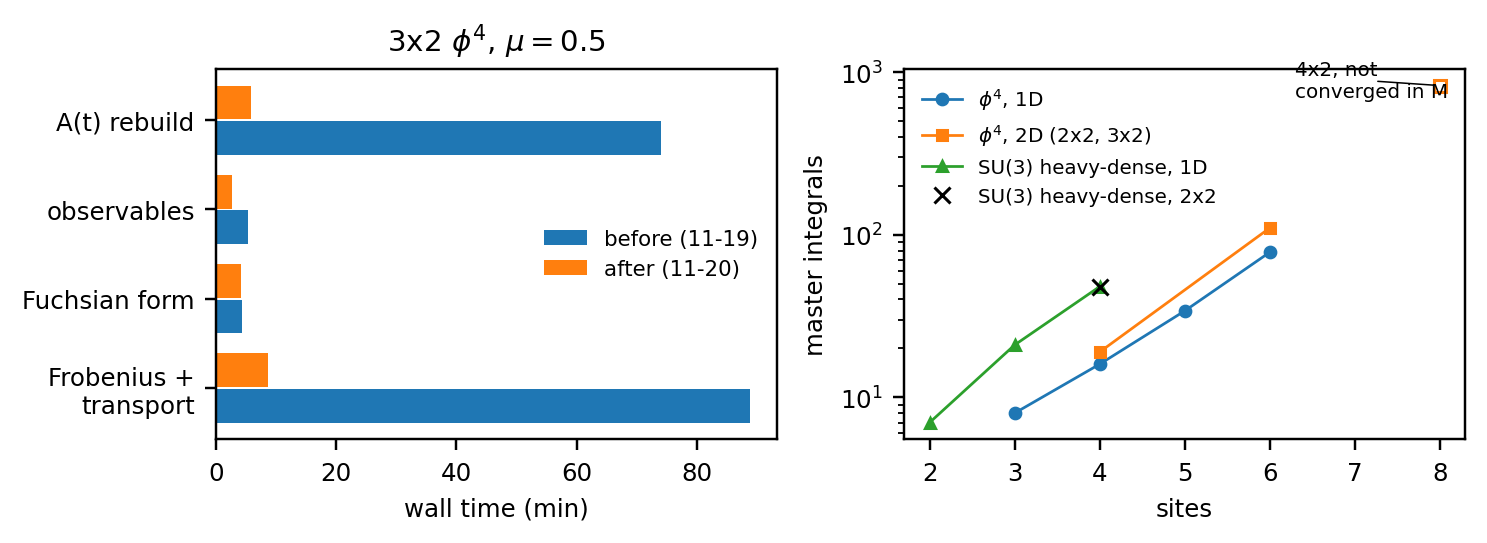
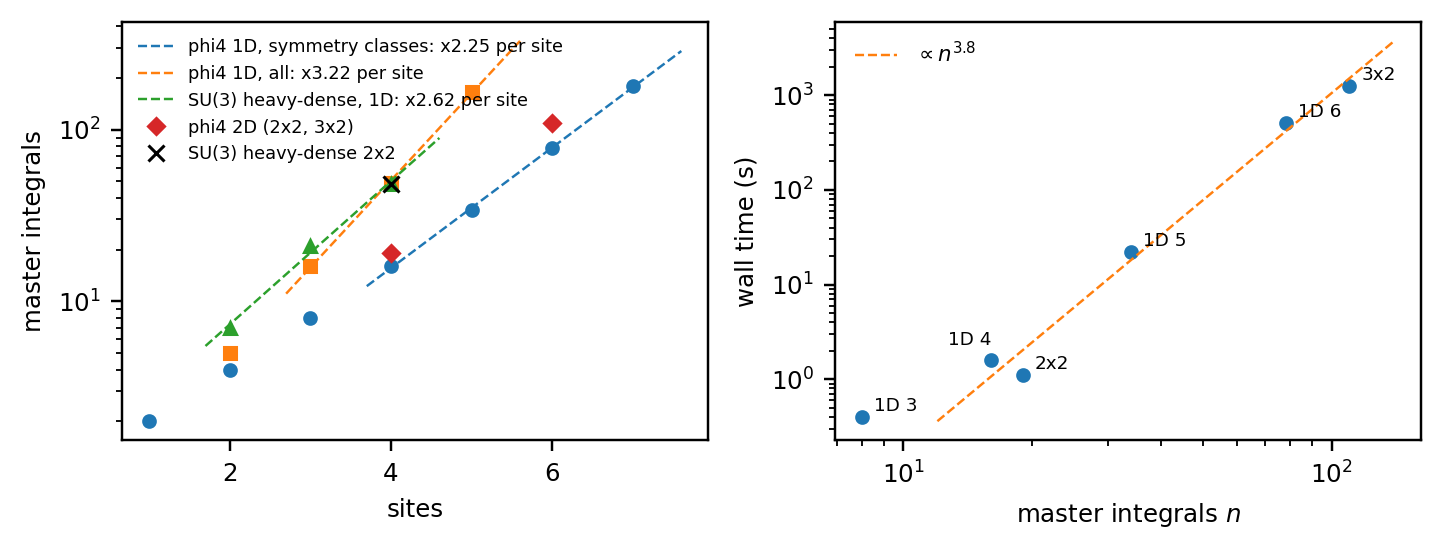
IBP blog: quantified growth of master integrals and cost, remove audit remarks, dates and borrowed figure

diff --git a/assets/blog/ibp/index.html b/assets/blog/ibp/index.html
@@ -3,7 +3,7 @@
   <head>
     <meta charset="utf-8" />
     <meta name="viewport" content="width=device-width, initial-scale=1" />
-    <title>不抽样的格点场论：用分部积分精确计算</title>
+    <title>不抽样的格点场论：用分部积分精确计算（草稿）</title>
     <meta name="author" content="Moxian Qian" />
     <link rel="stylesheet" href="katex/katex.min.css" />
     <script defer src="katex/katex.min.js"></script>
@@ -22,7 +22,7 @@
   </head>
   <body class="lang-zh">
     <main>
-      <p class="byline">Moxian Qian · <time datetime="2026-11-25">2026-11-25</time></p>
+      <p class="byline">Moxian Qian</p>
       <h1>不抽样的格点场论：用分部积分精确计算</h1>
       <p class="lede">
         格点 Monte Carlo 在三个地方会失灵：临界点附近链走得太慢，规范场的拓扑扇区之间走不过去，复作用量下权重不是概率。
@@ -39,7 +39,6 @@
         <a href="#ch6">6　边界在哪里，为什么</a>
         <a href="#ch7">7　和已有方法的关系</a>
         <a href="#ch8">8　下一步</a>
-        <a href="#appA">附录　验证</a>
       </nav>
 
       <section id="ch0">
@@ -93,21 +92,9 @@
           分母随体积 $V$ 指数地变小，所需样本数按 $1/\langle e^{i\varphi}\rangle^2$ 增长。
         </p>
         <p>
-          QCD 在重夸克极限下有一个只含 Polyakov 圈的有效理论（Fromm–Langelage–Lottini–Philipsen 2012），常被用来研究有限密度的符号问题。
-          下图取自 Bühlmann 与 Wenger 的工作：平均相位的对数随体积线性下降，即指数衰减；衰减速率依赖化学势，在半填充（$\mu_B\approx m_B$）附近出现凹陷，
-          两侧最严重。
+          这不只是玩具模型的问题。QCD 在重夸克极限下的有效理论（Fromm–Langelage–Lottini–Philipsen 2012）是研究有限密度的常用模型，
+          在三维格子上它的平均相位随体积指数衰减，衰减最快的地方在半填充两侧（Bühlmann–Wenger 2021）。第 5 章我们用精确结果看到同样的图像。
         </p>
-        <figure>
-          <div style="display:flex;gap:1em;align-items:center;justify-content:center;flex-wrap:wrap">
-            <img src="figs/lit/bw2021_avSign_vs_V_T0.png" alt="平均相位的对数随体积" style="width:52%;min-width:300px" />
-            <img src="figs/lit/bw2021_severity_of_sign_problem_grandcanonical_2.png" alt="符号问题严重程度随化学势和温度" style="width:38%;min-width:240px" />
-          </div>
-          <figcaption>
-            <b>图 0.2</b>　重夸克高密度 QCD 有效理论（三维空间格子）的符号问题。左：零温下平均符号的对数随格点数 $V$ 线性下降（不同重子密度 $\rho_B$）。
-            右：符号问题的严重程度 $\sigma$（平均相位 $\sim e^{-\sigma V}$）随 $\mu_B/m_B$ 和温度的变化，巨正则系综。
-            图片原样取自 P. Bühlmann, U. Wenger, <i>Heavy-dense QCD at fixed baryon number without a sign problem</i>, PoS LATTICE2021, arXiv:2110.15021，图 2 与图 3，版权归原作者。
-          </figcaption>
-        </figure>
         <p>
           绕开符号问题的另一条路是复 Langevin：把场复化，让随机过程在复平面上走。它不需要正的权重，但不保证收敛到对的答案（5.1 节有一个例子）。
         </p>
@@ -148,8 +135,7 @@
           $$\frac{d}{d\eta}\begin{pmatrix}I_0\\ I_1\end{pmatrix}=\begin{pmatrix}0&-1\\[2pt] -\frac{1}{2\lambda}&\frac{\eta}{2\lambda}\end{pmatrix}\begin{pmatrix}I_0\\ I_1\end{pmatrix}.$$
         </p>
         <div class="num">
-          一维格子 $\eta=3$、$\lambda=1$：$I_0=\tfrac12\sqrt{\pi}\,e^{9/4}\,{\rm erfc}(3/2)=0.284997654894754577$，$I_1=(1-3I_0)/2=0.072503517657868134$。
-          由关系得到的 $I_2=(I_0-3I_1)/2=0.033743550960575088$，和直接数值积分的 40 位相同。
+          一维格子 $\eta=3$、$\lambda=1$ 时，$I_0=\tfrac12\sqrt{\pi}\,e^{9/4}\,{\rm erfc}(3/2)=0.28499765$，$I_1=(1-3I_0)/2=0.07250352$，由关系得到 $I_2=(I_0-3I_1)/2=0.03374355$，和直接积分相同。
         </div>
         <p>整个方法就是这两件事在格点上的推广：用分部积分找出主积分，再对一个参数解微分方程。</p>
 
@@ -219,13 +205,12 @@
           只靠前一种不够，因为初值错了时两档精度照样一致，快增长的解把误差"吞掉"了。
         </p>
         <div class="num">
-          两格点：$\langle|\phi|^2\rangle=\langle z_0w_0\rangle/\langle1\rangle=0.31772666307226419785027994674\ldots$，与独立的转移矩阵计算一致到 $10^{-90}$，整个计算不到一秒。
+          两格点的结果是 $\langle|\phi|^2\rangle=\langle z_0w_0\rangle/\langle1\rangle=0.3177266631\ldots$，可以要多少位给多少位。
         </div>
         <h3>3.5　精确的 $A(t)$ 怎么得到</h3>
         <p>
           在有理数上消元，中间结果的位数会爆炸，$\mu=0.5$ 时 $A(t)$ 的系数就有上百位。所以消元在大素数 $p$ 的有限域上做，在若干个 $t$ 值和若干个素数上重复，
-          再用插值恢复 $t$ 的依赖，用中国剩余定理和有理数重建恢复系数。这一部分是从 Feynman 积分程序借来的成熟技术；再借用其中的方程筛选、Newton 插值和自适应步长，
-          $3\times2$ 格子从约 9.5 小时降到约 21 分钟（图 6.1 左）。
+          再用插值恢复 $t$ 的依赖，用中国剩余定理和有理数重建恢复系数。这一部分以及方程筛选、插值和自适应步长等加速手段，都是从 Feynman 积分程序借来的成熟技术。
         </p>
       </section>
 
@@ -233,8 +218,8 @@
         <h2>4　Bose 气体的结果</h2>
         <p>
           三格点、$\mu=\ln(61/37)\approx0.5$：作用量是复数，8 个主积分，$A(t)$ 在 $t=0$ 有二阶极点，一次平衡变换化成 Fuchs 形式。
-          结果 $\langle|\phi|^2\rangle=0.30628715611762152364665\ldots$，$n=0.08364122223565378481344\ldots$，与转移矩阵一致到 $10^{-91}$。
-          二维 $3\times2$、$\mu=0.5$ 有 110 个主积分（$\mu=0$ 时也是 110），$\langle|\phi|^2\rangle=0.23484485152447177987\ldots$，$n=0.05641185012763665496\ldots$。
+          结果是 $\langle|\phi|^2\rangle=0.3062871561\ldots$，$n=0.0836412222\ldots$。本文所有 $\phi^4$ 的数值都和一条不用 IBP 的独立路线（对偶表示的转移矩阵）对过。
+          二维 $3\times2$、$\mu=0.5$ 有 110 个主积分（$\mu=0$ 时也是 110），$\langle|\phi|^2\rangle=0.2348448515\ldots$，$n=0.0564118501\ldots$。
         </p>
         <figure>
           <img src="figs/fig_scan.png" alt="三格点 Bose 气体：精确值与各种采样方法" />
@@ -255,8 +240,7 @@
         <p>
           实时间演化的权重是 $e^{iS_M}$，纯振荡。Schwinger–Keldysh 做法把时间放在复平面的围道上：先沿实时间向前、再向后，最后沿虚时间（温度）闭合。
           我们把实时间段倾斜一个角度 $\theta$，链上的时间步长是 $\Delta t\,e^{\pm i\theta}$。$\theta=0$ 是普通的虚时间，$\theta\to90^\circ$ 是真正的实时间，权重越来越振荡。
-          模型是 0+1 维的 O(2) 振子加四次势，三个格点，观测量是等时关联 $\langle\Phi_0\Phi_0^*\rangle$。IBP 对 $\theta$ 一视同仁，倾角只改变方程的系数；
-          在所有角度上它都和另外两条独立的精确路线一致到 $10^{-11}$ 以上。
+          模型是 0+1 维的 O(2) 振子加四次势，三个格点，观测量是等时关联 $\langle\Phi_0\Phi_0^*\rangle$。IBP 对 $\theta$ 一视同仁，倾角只改变方程的系数。
         </p>
         <figure>
           <img src="figs/fig_sk.png" alt="复 Langevin 在 Schwinger–Keldysh 围道上的偏差" />
@@ -276,7 +260,7 @@
           例子是一维复 $\phi^4$ 加一个 staggered 费米子，质量 $m_t=m_F+g|\phi_t|^2$，费米子化学势 $\mu_F$。行列式是
           $$\det D=A(m_0,\dots,m_{N-1})+2^{1-N}\cosh(N\mu_F),\qquad A={\rm tr}\prod_t\begin{pmatrix}m_t&1/4\\1&0\end{pmatrix},$$
           $\mu_F$ 只出现在第二项，对应费米子世界线绕时间一圈。所以只要算出 $\langle A\rangle$ 和 $\langle\partial A/\partial m_F\rangle$ 两个数，所有 $\mu_F$ 下的结果都解析给出。
-          六格点时这两个数和独立的转移矩阵一致到 $10^{-90}$，费米子密度随 $\mu_F$ 从 0 升到 0.995。
+          六格点时费米子密度随 $\mu_F$ 从 0 升到 0.995，格子逐渐被填满。
         </p>
 
         <h3>5.3　U(1) 规范场</h3>
@@ -285,7 +269,7 @@
           积分族是链变量 $e^{i\theta}$ 的 Laurent 单项式。$L=2$ 有 8 个主积分；$L=3$ 有 630 个，正好等于孤立鞍点的个数。物理的配分函数用不到全部，$L=2$ 时
           $$Z=\sum_n I_n(\beta)^4={}_2F_3\big(\tfrac12,\tfrac12;1,1,1;4\beta^2\big),$$
           满足一个 4 阶方程 $\beta^3Z^{(4)}+6\beta^2Z^{(3)}+(7\beta-16\beta^3)Z^{(2)}+(1-48\beta^2)Z^{(1)}-16\beta Z=0$。4 正好是 8 个鞍点在格子对称和电荷共轭下的轨道数。
-          $L=3$ 时 $Z$ 的最小方程是 15 阶，同样等于 630 个鞍点的轨道数；用这个方程，$\langle{\rm plaquette}\rangle$ 在 $\beta=1$ 算到 71 位。
+          $L=3$ 时 $Z$ 的最小方程是 15 阶，同样等于 630 个鞍点的轨道数；用这个方程，plaquette 可以算到任意精度。
         </p>
         <p>
           拓扑荷 $Q$ 是相位的非多项式函数，不在这个积分族里，所以 IBP 不直接给 $\langle Q^2\rangle$（第 0 章的精确 $\langle Q^2\rangle$ 来自 Bessel 函数的特征标求和）。
@@ -307,8 +291,7 @@
           只用 Casimir 算子生成的关系不完整（主积分数随盒子一直涨），一阶的圈方程才完整。主积分数在 2、3、4 个格点的环上分别是 7、21、48，$2\times2$ 也是 48。
         </p>
         <div class="num">
-          $2\times2$、$h=1/4$、$\mu/T=\ln2$、$\lambda=0.1$：IBP 给出 $n=0.42667177993021947317\ldots$，$\langle L\rangle=0.70938752779243166723\ldots$，$\langle L^*\rangle=0.81269366703808429190\ldots$，
-          与网格转移矩阵一致到 $10^{-16}$（转移矩阵的双精度极限）。2、3 个格点时，它和另一种独立的 IBP 写法（直接在本征相位上做）40 位相同。
+          $2\times2$、$h=1/4$、$\mu/T=\ln2$、$\lambda=0.1$ 时，IBP 给出 $n=0.4266717799\ldots$，$\langle L\rangle=0.7093875278\ldots$，$\langle L^*\rangle=0.8126936670\ldots$，和独立的转移矩阵计算一致。$\langle L\rangle\neq\langle L^*\rangle$ 本身就是有限密度的标志：$\mu$ 让夸克和反夸克不再对称。
         </div>
         <figure>
           <img src="figs/fig_sign_mu.png" alt="密度与平均相位随化学势的变化" />
@@ -320,7 +303,7 @@
         <p>
           图 5.2 展示了这个模型的物理。$\mu$ 只通过绕时间一圈的世界线进入；单个夸克带色荷，被 Haar 积分消掉，只有三个夸克组成的色单态（重子）留下 $\mu$ 的依赖。
           密度从 0 平滑升到每格点 3 个夸克。平均相位在半填充（$he^{\mu/T}=1$）处回到接近 1，因为那里 $\det(1+P)=2+2\,{\rm Re}L$ 是实数（粒子–空穴对称）；
-          两侧最低，格点越多越低。这和三维格子上的文献结果（图 0.2）是同一个图像。
+          两侧最低，格点越多越低。这和三维格子上的文献结果是同一个图像。
         </p>
       </section>
 
@@ -329,15 +312,23 @@
         <figure>
           <img src="figs/fig_cost.png" alt="加速与主积分增长" />
           <figcaption>
-            <b>图 6.1</b>　左：$3\times2$、$\mu=0.5$ 各阶段的耗时，借用 Feynman 积分工具前后。右：主积分数随格点数的增长。
+            <b>图 6.1</b>　左：主积分数随格点数的增长，虚线为指数拟合，图例中是每增加一个格点的倍数。右：整个计算的耗时随主积分数 $n$ 的变化，虚线为幂律拟合。
           </figcaption>
         </figure>
         <p>
-          主积分数不看化学势，但随格点数指数增长（图 6.1 右）：一维 $\phi^4$ 每多一个格点约乘 2.2，重夸克有效理论约乘 2 到 3。采样方法付的代价是 $e^{V\Delta f}$，$\Delta f$ 由物理决定；
-          这里付的是 $c^V$，$c$ 由每个格点上的局部结构决定。另一个限制是盒子：观测量（例如费米子行列式）次数越高，盒子要越大，消元矩阵的列数随之爆炸。
+          主积分数不看化学势，但随格点数指数增长，增长率可以直接量出来（图 6.1 左）。一维 $\phi^4$ 不扣对称性时，2 到 5 个格点的主积分数是 5、16、49、166，
+          每多一个格点乘约 3.2；按对称类计，1 到 7 个格点是 2、4、8、16、34、78、180，每个格点乘约 2.25（对称群只随格点数线性增大，抵消不了指数增长）。
+          重夸克有效理论的环每个格点乘约 2.6。对照一下 $t=0$：格点互不耦合时主积分数恰好是 $2^N$，每个格点贡献单格点的两个主积分。
+          跳跃把格点连起来以后，每格点的倍数从 2 涨到约 3.2，多出来的是跳跃产生的新的集体鞍点。
         </p>
         <p>
-          按这两点估计，$\phi^4$ 的 $4\times2$ 约有 800 个主积分，一次消元要几个小时；重夸克有效理论的三维 $2^3$ 需要约 $3\times10^7$ 列的消元，要 1 TB 量级的内存，属于花资源能做的范围。
+          耗时随主积分数 $n$ 按约 $n^{3.8}$ 增长（图 6.1 右）：消元的盒子随之变大，$A(t)$ 有 $n^2$ 个元素要重建，输运的每一步是 $n\times n$ 矩阵运算。
+          两者合起来，一维 $\phi^4$ 每多一个格点，耗时乘约 $2.25^{3.8}\approx 20$。按这个规律，8 个格点约 400 个主积分，要算两三天；
+          二维 $4\times2$ 的首次消元给出约 800 个主积分，已经到了实际能做的边缘。采样方法付的代价是 $e^{V\Delta f}$，$\Delta f$ 由物理决定；
+          这里付的是 $c^{3.8V}$，$c$ 由格点上鞍点的结构决定。
+        </p>
+        <p>
+          重夸克有效理论的三维 $2^3$ 难在另一处：夸克行列式是高次分子，盒子要很大，估计需要约 $3\times10^7$ 列的消元和 1 TB 量级的内存。
           三维纯规范 SU(3) 则做不了：每条链 8 个自由度，而且规范理论的鞍点不孤立（环面上的平坦联络连成连续的一族），"主积分 = 孤立鞍点"的图像不再成立。
         </p>
       </section>
@@ -360,18 +351,7 @@
         </p>
       </section>
 
-      <section id="appA">
-        <h2>附录 A　怎么知道算对了</h2>
-        <p>每个结论至少有一条完全独立的路线核对：</p>
-        <table>
-          <tr><th>问题</th><th>独立路线</th><th>一致到</th></tr>
-          <tr><td>复 $\phi^4$，一维</td><td>对偶表示的转移矩阵</td><td>$10^{-73}$–$10^{-91}$</td></tr>
-          <tr><td>复 $\phi^4$，$3\times2$</td><td>二维转移矩阵（精度受其网格限制）；worm Monte Carlo</td><td>约 6 位；统计误差内</td></tr>
-          <tr><td>$\phi^4$ + 费米子</td><td>带费米子块的转移矩阵</td><td>$10^{-90}$</td></tr>
-          <tr><td>0+1 维 SU(3) QCD</td><td>解析常数项 vs 数值积分</td><td>$10^{-16}$</td></tr>
-          <tr><td>重夸克有效理论</td><td>两种独立 IBP 写法；转移矩阵；小耦合级数</td><td>40 位；$10^{-16}$</td></tr>
-        </table>
-      </section>
+
 
 
     </main>
